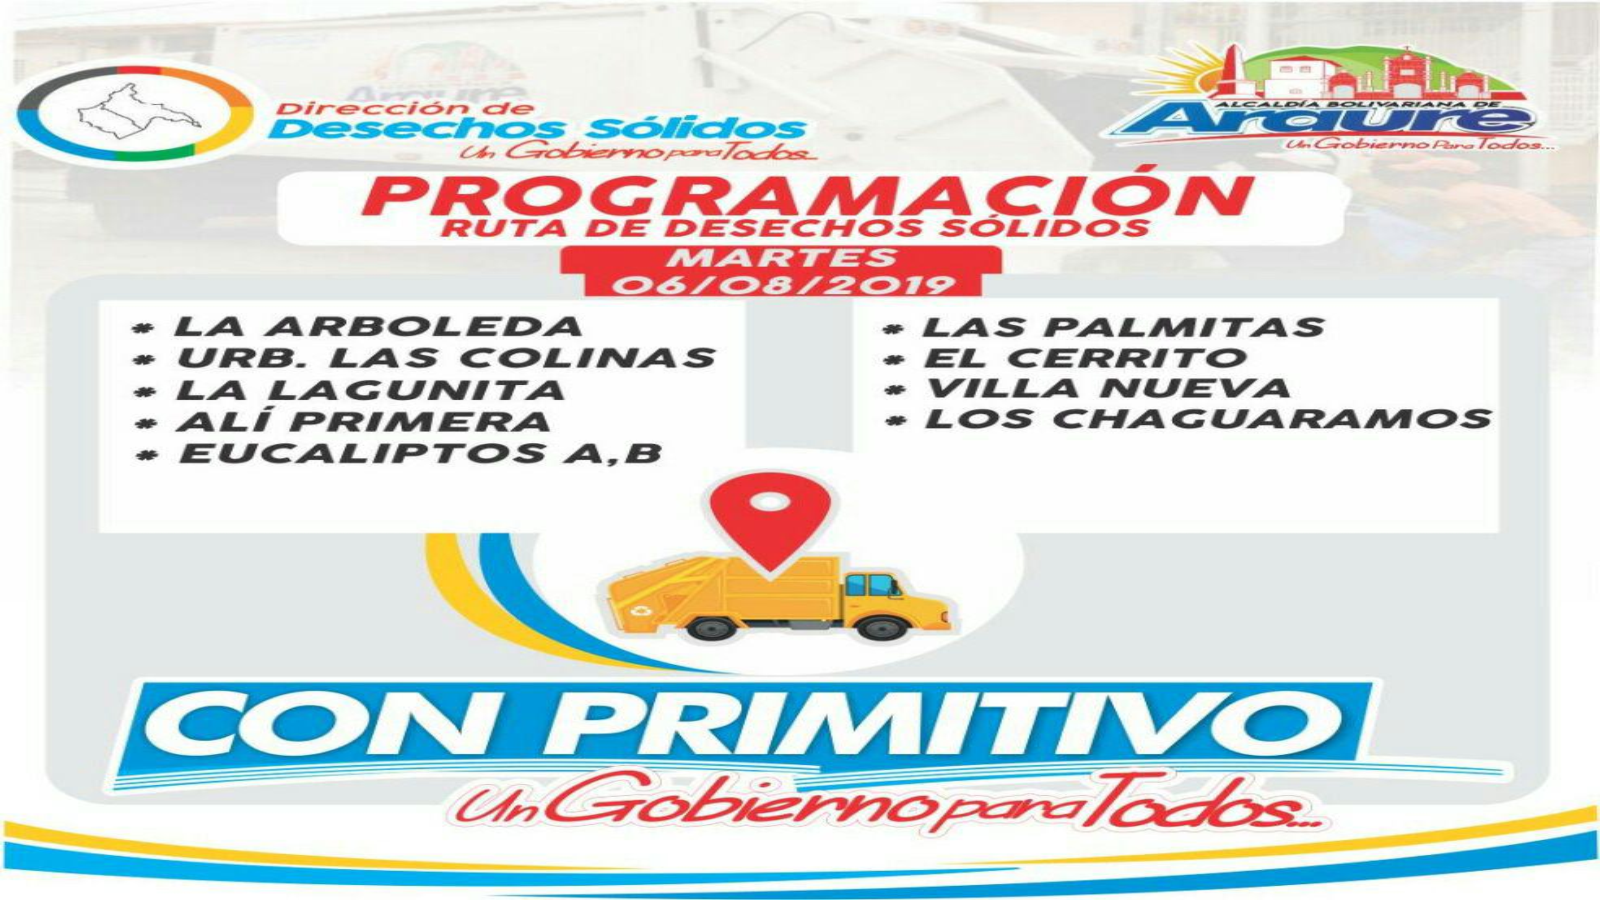
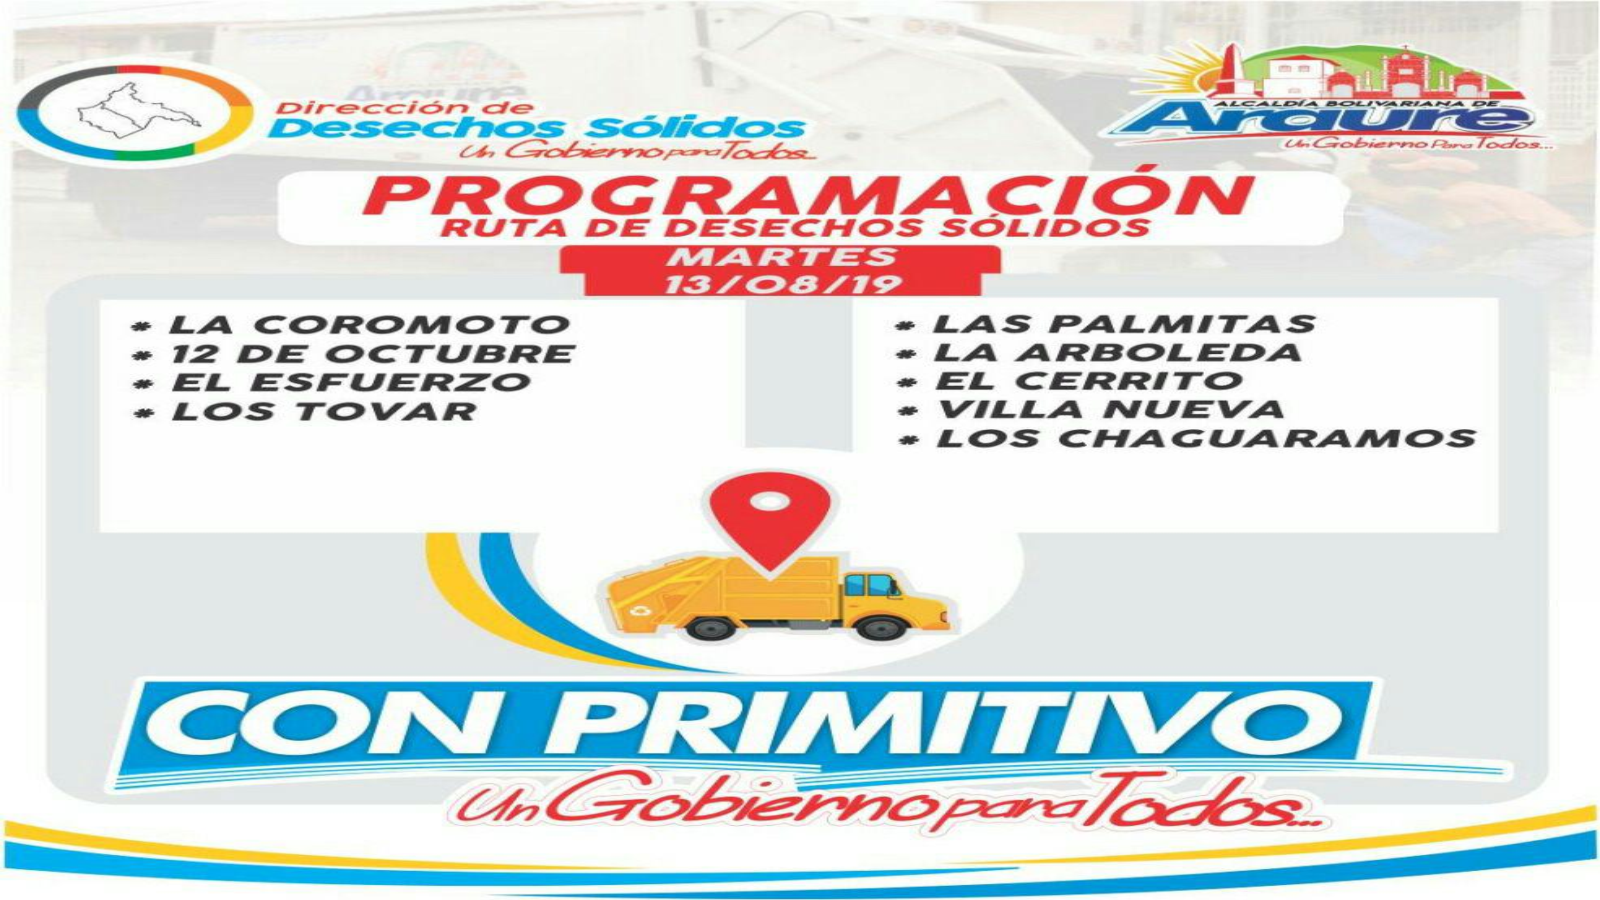
aviso del aseo

diff --git a/html/index.html b/html/index.html
@@ -233,12 +233,11 @@
                           <div class="col-md-12 hidden-xs hidden-sm">
                         <div class="flexslider left">
                             <ul class="slides">
-                          <!--  <li>    Slide 1
-                                <img src="./img/Avisos_importantes/2019/aseo.png">-->
-                                   <!-- <div class="meta">
-                                 <h1>Lorem ipsum dolor sit amet, consectetur.</h1>
-                                </div>-->
-                               <!--</li>-->
+                          <li>     <!-- Slide 1-->
+                                <img src="./img/Avisos_importantes/2019/aseo.png">
+                                    <div class="meta">
+                                </div>
+                               </li>
                           <li>    <!--  Slide 2 -->
                                 <img src="./img/Avisos_importantes/2019/bono.png">
                                     <div class="meta">
